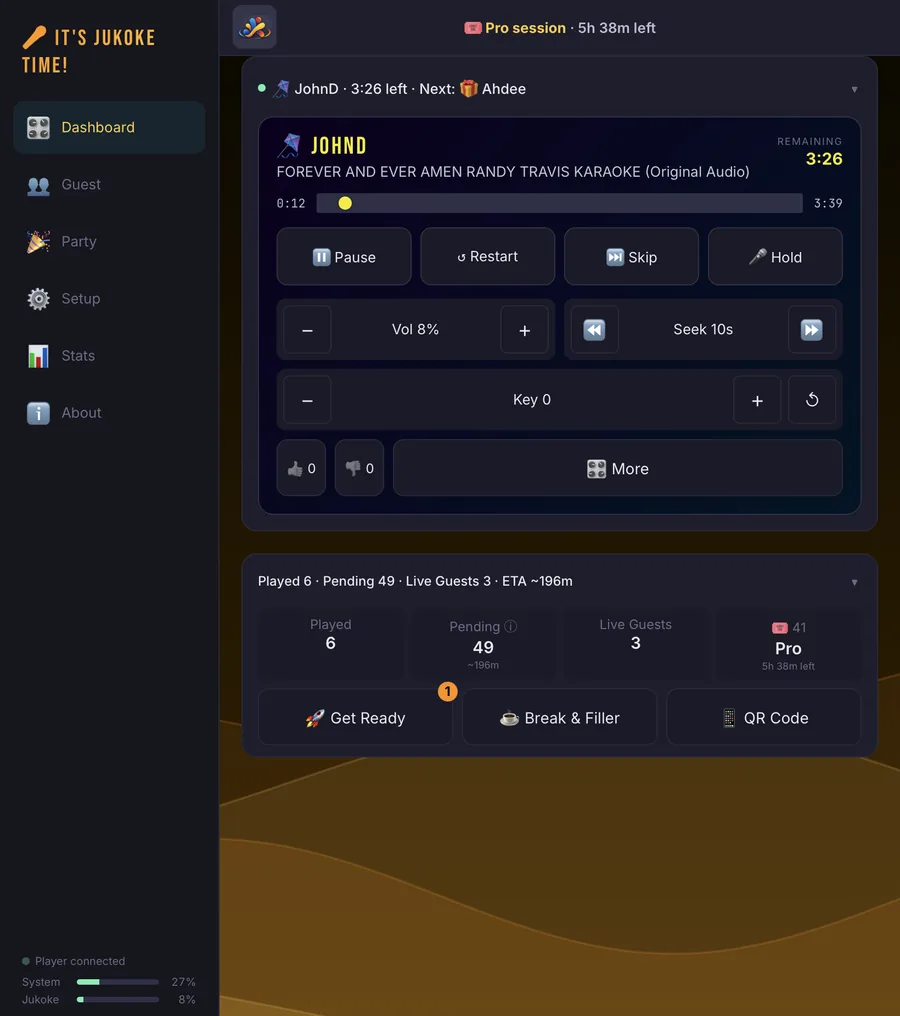
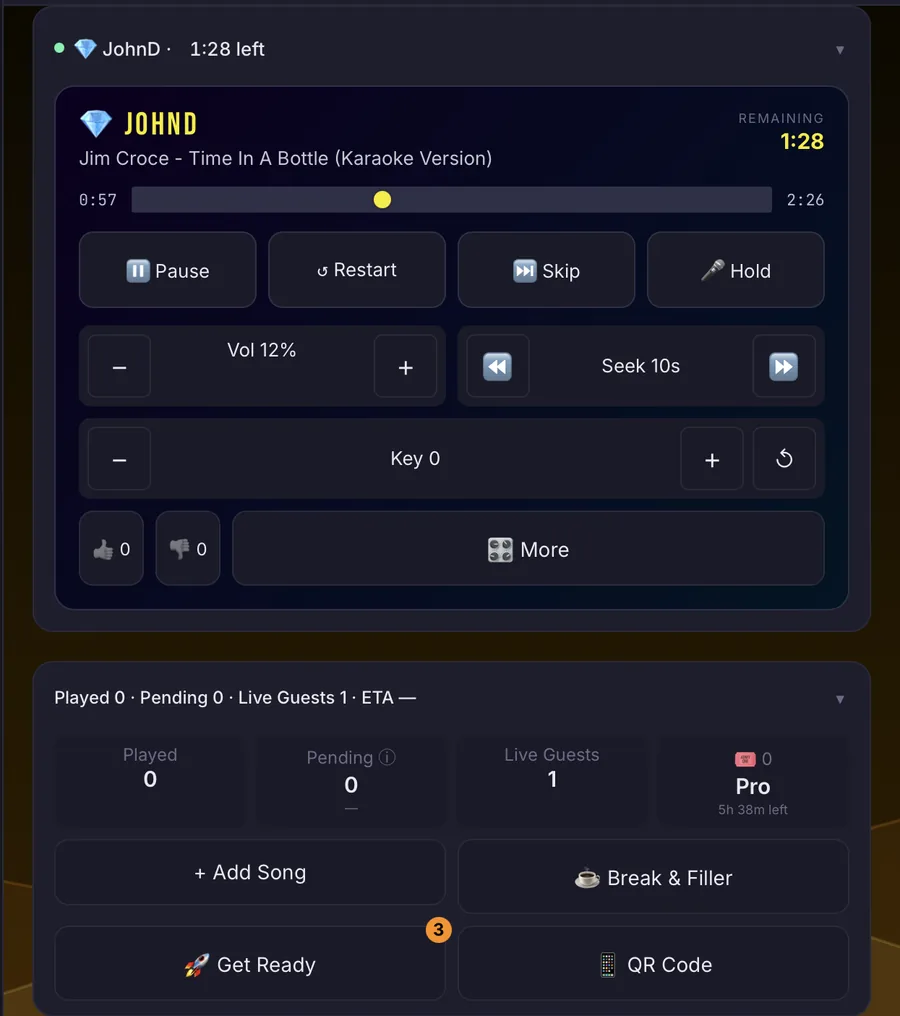
Update site for v2026.10.17-002: new dashboard screenshot, trial FAQ, news
Screenshots

img/shots/host-dashboard-singing.webp: replaced with the current iPad Dashboard (Add Song, Break & Filler, Get Ready with count badge, QR Code in a grid). Cropped to remove the browser bar, IP address and sidebar; kept at 900x1016 so the layout is unchanged.
features.html, index.html: alt text updated to describe the new button grid.

Support

support.html: new FAQ My free trial ended, or I need more time. Covers About > Copy Install ID, emailing support, and entering the single-use code under Have a code? in Party > Wallet. States that the code works before, during or after trial expiry, gives no tokens, and needs 2026.10.17-002 or later.

News

news.html, feed.xml: new 2026-10-17 entry (#r20261017) covering the tidier Dashboard, Pending changes, the guest panel, trial start/end dates in the Wallet, the Install ID Copy button, and trial extension codes. Feed updated date bumped to match.

Claude-Session: https://claude.ai/code/session_01Xan4F6UW3fVdnWSMRi6F7P

diff --git a/features.html b/features.html
@@ -120,7 +120,7 @@
 <div class="shots two">
 <figure class="shot"><img src="img/shots/host-get-ready.webp" width="900" height="1016" alt="The Get Ready checklist on the host dashboard, with checks for songs, playback and guest Wi-Fi" loading="lazy"><figcaption>Get Ready checks your screen, songs and Wi-Fi, and shows what is left.</figcaption></figure>
 <figure class="shot"><img src="img/shots/host-party-prep.webp" width="900" height="1016" alt="The Party Prep list with one prep, Smith Wedding, and buttons to open, clone or export it" loading="lazy"><figcaption>Prepare the night ahead of time, then bring it to life at the party.</figcaption></figure>
-<figure class="shot"><img src="img/shots/host-dashboard-singing.webp" width="900" height="1016" alt="The host dashboard while a guest sings, with pause, skip, volume and key controls" loading="lazy"><figcaption>Run the party from the dashboard while a guest sings.</figcaption></figure>
+<figure class="shot"><img src="img/shots/host-dashboard-singing.webp" width="900" height="1016" alt="The host dashboard while a guest sings, with pause, skip, volume and key controls, and buttons below for Add Song, Break &amp; Filler, Get Ready and QR Code" loading="lazy"><figcaption>Run the party from the dashboard while a guest sings.</figcaption></figure>
 <figure class="shot"><img src="img/shots/host-approve-guest.webp" width="900" height="1016" alt="The Guests screen with a pending guest and Approve, Come See Me and Reject buttons" loading="lazy"><figcaption>Step in when you need to: approve, check in with, or turn away a guest.</figcaption></figure>
 </div>
 <h3>For your guests</h3>

diff --git a/news.html b/news.html
@@ -34,6 +34,19 @@
 </section>
 <section class="wrap block">
 <article class="post">
+<h2 id="r20261017">A tidier dashboard, a guest panel, and your trial dates</h2>
+<p class="meta"><time datetime="2026-10-17">October 17, 2026</time></p>
+<p>Version 2026.10.17-002 makes the host screens easier to scan.</p>
+<ul class="ticks">
+<li><strong>Dashboard.</strong> Add Song, Break &amp; Filler, Get Ready and QR Code now sit in a tidy grid under the stats, and Get Ready shows how many checks are left. On a tablet the host screen uses the wider space.</li>
+<li><strong>Pending songs.</strong> Add Song is right there when the queue is empty, and Approve some songs first is easier to find.</li>
+<li><strong>Guest panel.</strong> Tap a guest to see and manage them in one place.</li>
+<li><strong>Trial dates.</strong> The Wallet shows when your free trial started and when it ends.</li>
+<li><strong>Install ID.</strong> About has a Copy button, so sending it to support is one tap.</li>
+<li><strong>More trial time.</strong> If you need it, support can send a single-use code that adds trial days to your installation. It gives no tokens.</li>
+</ul>
+</article>
+<article class="post">
 <h2 id="r20261014b">A tip jar on every guest&rsquo;s phone</h2>
 <p class="meta"><time datetime="2026-10-14">October 14, 2026</time></p>
 <p>Show guests how to tip you, without a hand-written sign on the table.</p>

diff --git a/support.html b/support.html
@@ -84,6 +84,9 @@
 <details><summary>I bought tokens but they haven&rsquo;t arrived</summary>
 <p>Check your email, including spam, for the code and redeem it in the Wallet. If nothing arrives within a few minutes, email <a href="mailto:support@jukeboxoke.com">support@jukeboxoke.com</a> with the email address you used to buy.</p></details>
 
+<details><summary>My free trial ended, or I need more time</summary>
+<p>Open <strong>About</strong> in the host screen and tap <strong>Copy</strong> beside your Install ID. Email it to <a href="mailto:support@jukeboxoke.com">support@jukeboxoke.com</a> and say what you need the extra time for. If we can help, we send a single-use code that adds trial days to that installation only; it gives no tokens. Enter it under <strong>Have a code?</strong> in <strong>Party &rarr; Wallet</strong>. It works before, during or after the trial ends, and the Wallet shows when your trial starts and ends. You need version 2026.10.17-002 or later.</p></details>
+
 <details><summary>I forgot the MC password I set</summary>
 <p>On the Jukoke computer, delete the hidden file <code>data/.mc_auth.json</code> and restart Jukoke. This returns the factory password from your install. Passwords are case-sensitive.</p></details>
 

diff --git a/index.html b/index.html
@@ -133,7 +133,7 @@
 <figcaption class="small muted">One workflow for the host and the guests</figcaption>
 </figure>
 <div class="shots two">
-<figure class="shot"><img src="img/shots/host-dashboard-singing.webp" width="900" height="1016" alt="The host dashboard while a guest sings" loading="lazy"><figcaption>Run the night from your phone or tablet.</figcaption></figure>
+<figure class="shot"><img src="img/shots/host-dashboard-singing.webp" width="900" height="1016" alt="The host dashboard on a tablet while a guest sings, with Add Song, Break &amp; Filler, Get Ready and QR Code buttons below" loading="lazy"><figcaption>Run the night from your phone or tablet.</figcaption></figure>
 <figure class="shot"><img src="img/shots/guest-singing.webp" width="900" height="1500" alt="The singer controls on a guest's phone, with a Tip button in the bottom bar" loading="lazy"><figcaption>Guests sing with their own controls.</figcaption></figure>
 </div>
 <p class="small"><a href="features.html#flows">See each side step by step &rarr;</a></p>
